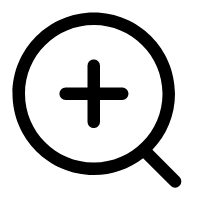
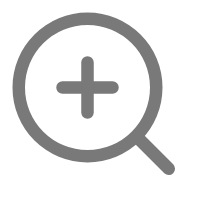
修改样式

Changed region(s): [[0.06, 0.06, 0.93, 0.96], [0.27, 0.27, 0.66, 0.66]]

diff --git a/components/optionalStock/optionalStock.js b/components/optionalStock/optionalStock.js
@@ -1,6 +1,9 @@
 // components/optionalStock/optionalStock.js
 import EventBus from '../../utils/pubsub.js'
 import storage from '../../utils/WXStorage.js'
+import {
+  getNumUnit
+} from '../../utils/changeUnit.js'
 const app = getApp()
 Component({
   properties: {
@@ -16,6 +19,7 @@ Component({
       value: null,
       observer(data) {
         
+       
         for (let i = 0; i < this.data.codeDetail.length; i++) {
           for (let j = 0; j < data.data.length; j++) {
             
@@ -28,7 +32,7 @@ Component({
         for (let i = 0; i < this.data.allData.length; i++) {
           let flag = true;
           for (let j = 0; j < data.data.length; j++) {
-            if (this.data.allData[i].stockCode = data.data[j].stockCode) {
+            if (this.data.allData[i].stockCode === data.data[j].stockCode) {
               flag = false;
             }
           }
@@ -37,6 +41,7 @@ Component({
           }
         }
         for(let i = 0; i < data.data.length; i++) {
+          data.data[i].oriCjl = data.data[i].cjl
           if(parseFloat(data.data[i].zf) > 0 ) {
             
             data.data[i].riseFlag = true
@@ -45,10 +50,21 @@ Component({
           } else {
             data.data[i].riseFlag = 0
           }
+          data.data[i].oriCjl = data.data[i].cjl
+          data.data[i].cjl = getNumUnit(data.data[i].cjl)
         }
-        this.setData({
-          allData: data.data
-        })
+
+        let oriData = data.data
+        let items = this.data.itemsFlag
+        
+        if(items!==''){
+          
+          this.sortList(items,oriData)
+          }else {
+          this.setData({
+            allData:oriData
+          })
+        }
       }
     }
   },
@@ -64,6 +80,10 @@ Component({
     totalPage: 1,
     plateWidth:0,
     codeStr: '',
+    itemsFlag: '' ,
+    lastFlag:'',
+    trangDirction: null,  // true 为 上，false 为下
+    trangStatus: false,  //记录当前是否点击了字段
   },
   pageLifetimes: {
     show() {
@@ -278,6 +298,87 @@ Component({
         stock: currentStock,
         stockList: lists
       })
+    },
+flagItem(e){
+  let item = e.currentTarget.dataset.item
+  console.log(item)
+  if(!this.data.trangStatus){
+    debugger
+    this.setData({
+      trangStatus:true,
+      trangDirction:true,
+      lastFlag:item,  //记录当前字段方便切换对比
+      itemsFlag:item
+    })
+  }else{
+    
+    if(this.data.lastFlag==item){ //只在当前字段进行排序
+      debugger
+      this.setData({
+        trangDirction:!this.data.trangDirction,
+      })
+    }else{      //切换到其他字段排序
+      debugger
+      this.setData({
+        itemsFlag:item,
+        lastFlag: item,
+        trangDirction:true,
+
+      })
+    }
+    
+  }
+      /* this.setData({
+        itemsFlag:item,
+        
+      }) */
+      let data = this.data.allData
+     
+      this.sortList(item,data)
+    },
+    //自选股排序判断
+    compare (property) {
+      return function(a,b){
+          var value1 = a[property];
+          var value2 = b[property];
+          return value1 - value2;
+       }
+    },
+    sortList(items,data){
+      
+      switch(items)
+          {
+            case 'gp':
+            console.log(items)
+            break;
+          
+            case 'dm':
+            console.log(items)
+            this.setData({
+              allData:data.sort(this.compare('stockCode'))
+            })
+            break;
+          
+            case 'zx':
+            console.log(items)
+              this.setData({
+                allData:data.sort(this.compare('cjj'))
+              })
+            break;
+          
+            case 'zf':
+            console.log(items)
+            this.setData({
+              allData:data.sort(this.compare('zf'))
+            })
+            break;
+
+            case 'cjl':
+            this.setData({
+              allData:data.sort(this.compare('oriCjl'))
+            })
+            break;
     }
   }
+}
 })

diff --git a/components/agentDetail/agentDetail.js b/components/agentDetail/agentDetail.js
@@ -12,7 +12,7 @@ Component({
           newData[i].time = newData[i].time.substring(8, 10) + ':' + newData[i].time.substring(10, 12)
         }
         this.setData({
-          data: newData.slice(-4)
+          data: newData.slice(-this.data.index)
         })
       }
     }, 
@@ -22,6 +22,25 @@ Component({
       observer(newData) {
         
       }
+    },
+    rightBottomHei :{
+      type: Number,
+      value: 0,
+      observer(newData) {
+        let height = newData;
+
+        const query = wx.createSelectorQuery().in(this)
+        query.select('.row').boundingClientRect(function (res) {
+          res.top
+        })
+        query.exec((res) => {
+          this.setData({
+            index: parseInt(height/res[0].height)
+          })
+          
+        })
+        
+      }
     }
   },
 
@@ -29,7 +48,11 @@ Component({
    * 组件的初始数据
    */
   data: {
-    data: []
+    data: [],
+    rowHeight: 0,
+    listHeight : 0,
+    index: 8
+    
   },
 
   /**

diff --git a/pages/stockIndex/stockIndex.js b/pages/stockIndex/stockIndex.js
@@ -382,6 +382,7 @@ Page({
       name: '指标',
       show: true
     }],
+    rightBottomHei: 0 ,
     ydlsData: {},
     ydCurrentData: {},
     ydStockLsData: {},
@@ -2042,6 +2043,7 @@ Page({
     this.diagram.closeCrosshair()
   },
   setView() {
+    
     const query = wx.createSelectorQuery().in(this)
     query.select('.left-top').boundingClientRect(function (res) {
       res.top
@@ -2071,7 +2073,6 @@ Page({
     query.exec((res) => {
       let height = res[2].height
       let width = res[2].width
-
       this.setData({
         dealHeight: height,
         dealWidth: width
@@ -2088,6 +2089,15 @@ Page({
       
       this.setData({
         underViewHeight,
+      })
+    })
+
+    query.select('.right-top').boundingClientRect(function (res) {
+      res.top
+    })
+    query.exec((res) => {
+      this.setData({
+        rightBottomHei : res[5].height-res[6].height
       })
     })
   },

diff --git a/utils/analysis.js b/utils/analysis.js
@@ -49,7 +49,8 @@ import {
       order += 4
       obj.zdj = stockTableView.getFloat32(order).toFixed(2)
       order += 4
-      obj.cjl = getNumUnit(Math.round((stockTableView.getFloat32(order))))
+     /*  obj.cjl = getNumUnit(Math.round((stockTableView.getFloat32(order)))) */
+     obj.cjl = Math.round((stockTableView.getFloat32(order)))
       order += 4
       obj.cje = getNumUnit(Math.round((stockTableView.getFloat32(order))))
       order += 4
@@ -62,7 +63,6 @@ import {
       data.data.push(obj)
       if (order >= stockTableView.byteLength) break;
     }
-    
     return data
   }
   

diff --git a/utils/socket.js b/utils/socket.js
@@ -9,6 +9,7 @@
   // let url = 'ws://192.168.0.104:8082/ws'  //小伍
     let url = 'ws://101.132.168.103:8888/ws' //线上
   // let url = 'ws://192.168.0.100:8082/ws' // 王
+  // url = 'ws://192.168.0.105:8082/ws'   //杜
   let reconnectHandle = null
   const MAX_CONNECTION_NUM = 10 // 最大连接数10
   let connectCount = 0

diff --git a/components/diagram/diagram.js b/components/diagram/diagram.js
@@ -3701,7 +3701,7 @@ Component({
         
       }
 
-      ctx.setStrokeStyle('blue')
+      ctx.setStrokeStyle('#ff9900')
       ctx.setLineDash([0, 0], 0)
       ctx.stroke()
       ctx.closePath()

diff --git a/components/notice/notice.js b/components/notice/notice.js
@@ -39,6 +39,7 @@ Component({
    * 组件的初始数据
    */
   data: {
+    leftKuo: '<',
     thisPage: 1,
     currentPage: 1,
     totalPage: 1,
